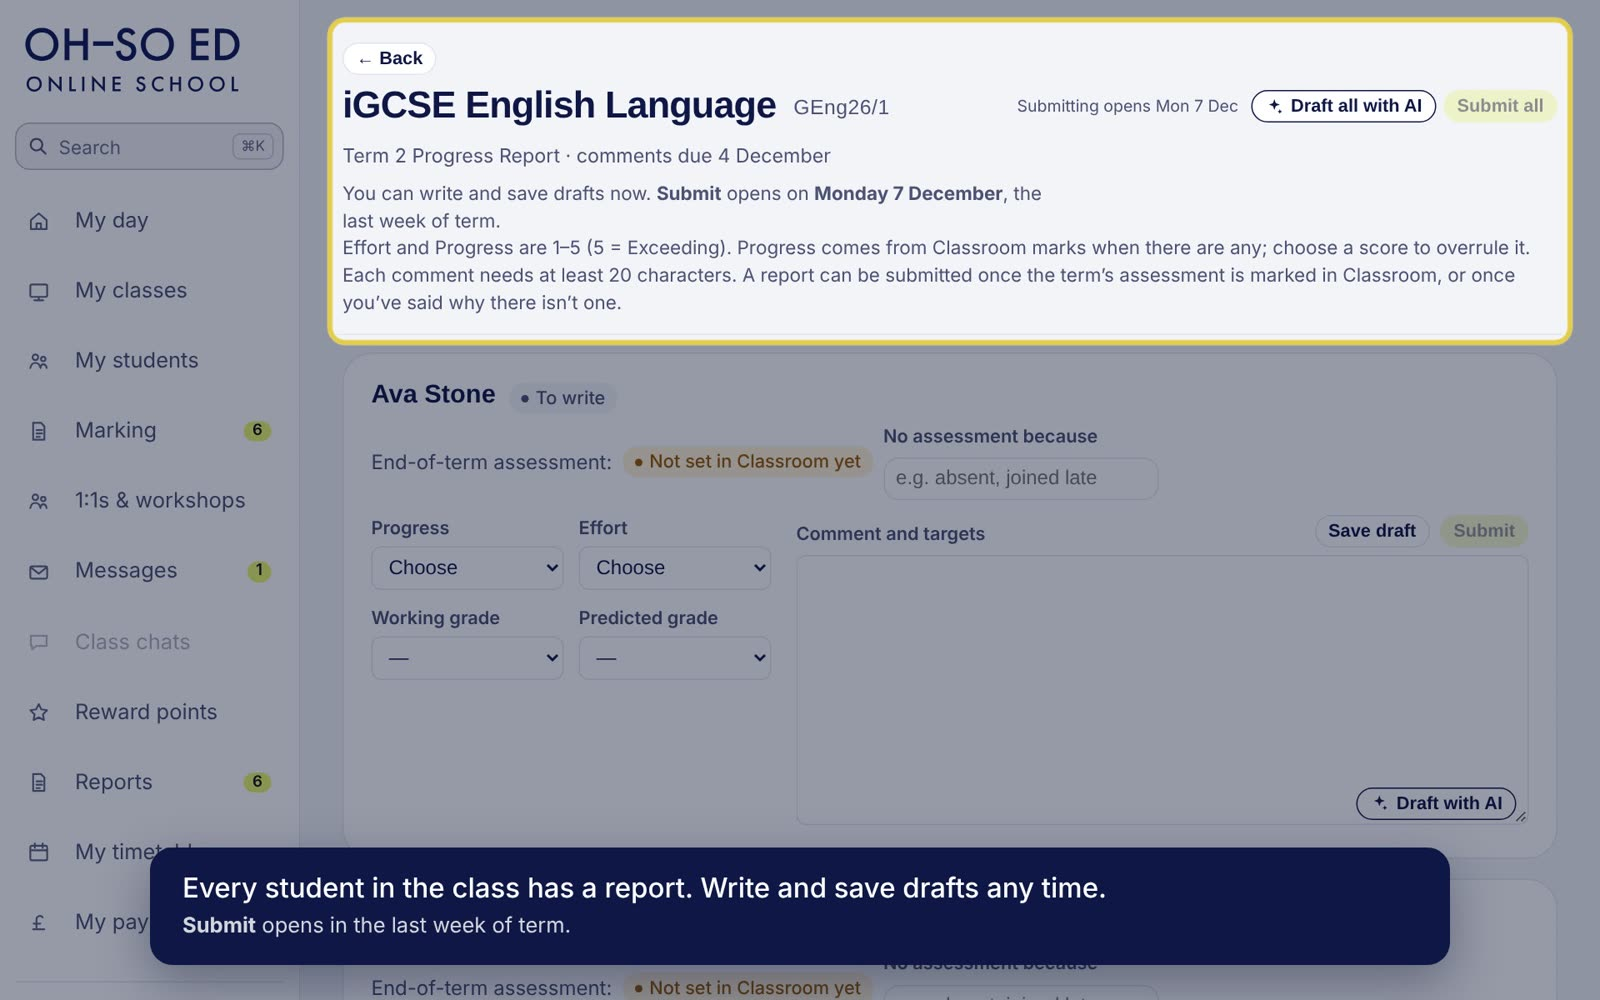
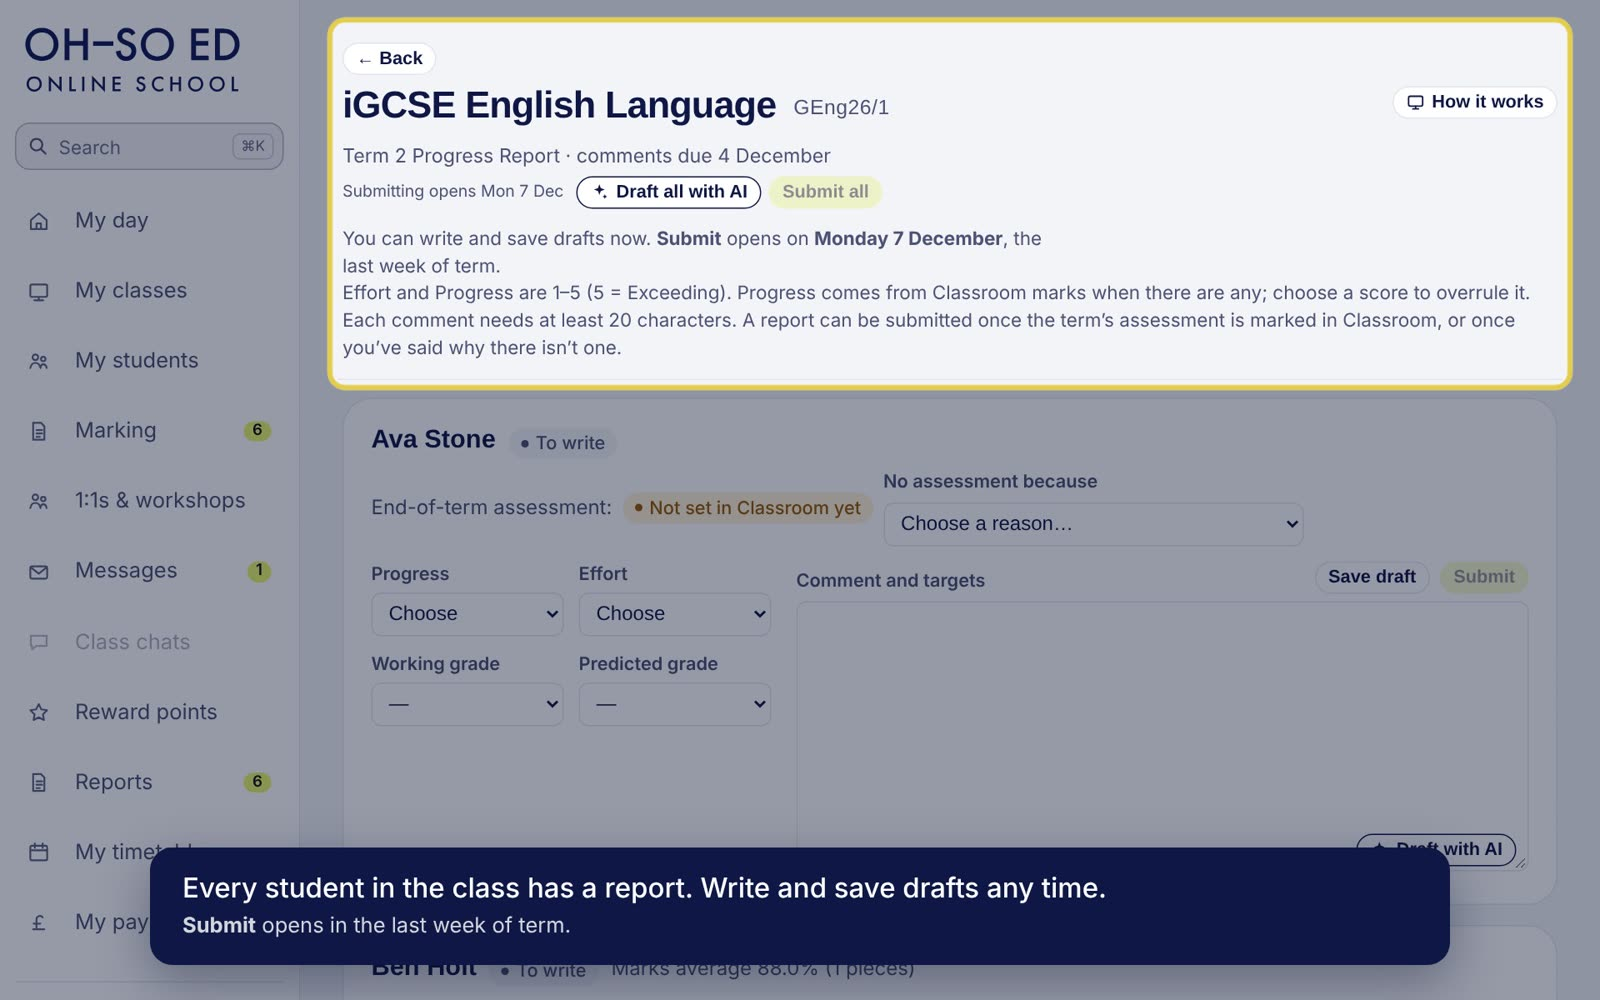
Update 481: No assessment reasons; My day button; dashboard lesson rows; guide captions
- "No assessment because" is a list of reasons (absent, joined after the assessment, none set
  this term, handed in not marked yet, medical or personal, taking a break) or Other to type one
- With the side menu hidden, a "My day" button (teacher) / "Dashboard" (admin) at the top left
- Admin dashboard Today: the number of students and class code on their own line
- Reports guide slides re-shot: Draft with AI uses the student's earlier reports; the reason list

Claude-Session: https://claude.ai/code/session_019jwWYdrTturMMjiMEQw7Wv

diff --git a/src/app/admin/TopBar.tsx b/src/app/admin/TopBar.tsx
@@ -9,7 +9,7 @@ export function TopBar({ children }: { children?: React.ReactNode }) {
 
 /** The bottom of the side menu, always in view: the School / Viewing as switchers (admins), then Sign out on the left and,
  *  on the right, the light/dark switch (as on the website) and the button that hides the menu. */
-export function SideFoot({ theme, signOut, switchers, site, preview, inline, toggle, note, settings, mode }: { mode?: "admin" | "teacher"; settings?: string; theme?: string; signOut?: (f: FormData) => Promise<void>; switchers?: React.ReactNode; site?: { href: string; label: string }[]; preview?: boolean; inline?: boolean; toggle?: boolean; note?: React.ReactNode }) {
+export function SideFoot({ theme, signOut, switchers, site, preview, inline, toggle, note, settings, mode, home }: { home?: { href: string; label: string }; mode?: "admin" | "teacher"; settings?: string; theme?: string; signOut?: (f: FormData) => Promise<void>; switchers?: React.ReactNode; site?: { href: string; label: string }[]; preview?: boolean; inline?: boolean; toggle?: boolean; note?: React.ReactNode }) {
   return <div className={`side-foot${inline ? " inline" : ""}`}>
     {switchers}{note}
     {mode && <div className="mode-seg" role="group" aria-label="Dashboard mode">
@@ -17,7 +17,7 @@ export function SideFoot({ theme, signOut, switchers, site, preview, inline, tog
       <a href="/admin/mode?to=teacher" aria-current={mode === "teacher" ? "true" : undefined}>Teacher</a></div>}
     <div className="sf-row">{signOut && <form action={signOut}><button className="abtn sm" type="submit">Sign out</button></form>}{!signOut && preview && <button className="abtn sm" type="button" disabled title="The parent or student sees Sign out here. You’re only viewing.">Sign out</button>}
       {settings && <a className="sf-icon" href={settings} title="Settings" aria-label="Settings"><svg viewBox="0 0 24 24" width="18" height="18" aria-hidden="true"><path fill="none" stroke="currentColor" strokeWidth="1.8" strokeLinecap="round" strokeLinejoin="round" d="M12 15.2a3.2 3.2 0 1 0 0-6.4 3.2 3.2 0 0 0 0 6.4Z"/><path fill="none" stroke="currentColor" strokeWidth="1.8" strokeLinecap="round" strokeLinejoin="round" d="M19.4 15a1.7 1.7 0 0 0 .34 1.87l.06.06a2 2 0 1 1-2.83 2.83l-.06-.06a1.7 1.7 0 0 0-1.87-.34 1.7 1.7 0 0 0-1.03 1.56V21a2 2 0 1 1-4 0v-.09a1.7 1.7 0 0 0-1.1-1.56 1.7 1.7 0 0 0-1.87.34l-.06.06a2 2 0 1 1-2.83-2.83l.06-.06A1.7 1.7 0 0 0 4.6 15a1.7 1.7 0 0 0-1.56-1.03H3a2 2 0 1 1 0-4h.09A1.7 1.7 0 0 0 4.6 8.9a1.7 1.7 0 0 0-.34-1.87l-.06-.06a2 2 0 1 1 2.83-2.83l.06.06a1.7 1.7 0 0 0 1.87.34H9a1.7 1.7 0 0 0 1-1.56V3a2 2 0 1 1 4 0v.09a1.7 1.7 0 0 0 1 1.56 1.7 1.7 0 0 0 1.87-.34l.06-.06a2 2 0 1 1 2.83 2.83l-.06.06a1.7 1.7 0 0 0-.34 1.87V9c.26.6.85 1 1.51 1H21a2 2 0 1 1 0 4h-.09a1.7 1.7 0 0 0-1.51 1Z"/></svg></a>}
-      <span className="sf-grow" /><ThemeToggle initial={theme ?? "auto"} />{toggle && <SideToggle />}</div>
+      <span className="sf-grow" /><ThemeToggle initial={theme ?? "auto"} />{toggle && <SideToggle home={home} />}</div>
     {site && site.length > 0 && <div className="sf-links">{site.map((l) => <a key={l.href} href={l.href}>{l.label}</a>)}</div>}
   </div>;
 }

diff --git a/src/app/admin/(panel)/layout.tsx b/src/app/admin/(panel)/layout.tsx
@@ -88,7 +88,7 @@ export default async function PanelLayout({ children }: { children: React.ReactN
       : <a className="logo" href="/admin" title="Back to the dashboard" style={{ ["--logo" as string]: `url("${logo}")` }}><span className="logo-i"><img src={logo} alt="OH-SO ED: go to the dashboard" width={773} height={224} /></span></a>}
       <MenuSearch area="admin" page="/admin/search" />
       <AdminNav counts={navCounts} groups={menu} />
-      <SideFoot theme={theme} signOut={signOutAction} toggle mode={await import("@/lib/staff-mode").then((m) => m.teachesSelf(me.id)).catch(() => false) ? "admin" : undefined} note={!demo && !pl.plan && testOn ? <a className="tm-pill" href="/admin/test-mode" title="Test mode is on: real data is read as normal, but nothing goes to families, students or teachers. Click to see what’s held.">Test mode on</a> : null} switchers={<div className="sw-side">{switchers("s")}</div>} 
+      <SideFoot theme={theme} signOut={signOutAction} toggle home={{ href: "/admin", label: "Dashboard" }} mode={await import("@/lib/staff-mode").then((m) => m.teachesSelf(me.id)).catch(() => false) ? "admin" : undefined} note={!demo && !pl.plan && testOn ? <a className="tm-pill" href="/admin/test-mode" title="Test mode is on: real data is read as normal, but nothing goes to families, students or teachers. Click to see what’s held.">Test mode on</a> : null} switchers={<div className="sw-side">{switchers("s")}</div>} 
         site={pl.plan ? [{ href: "/osedtech", label: "OH-SO EdTech" }] : isDemoVisitor(me.email) ? [{ href: "/osedtech/demo/site", label: "View the school’s website" }, { href: "/osedtech", label: "Back to OH-SO EdTech" }] : [{ href: "/", label: "View the website" }]} />
     </aside>
     <main className="main"><div className="topbar adm-tabs"><AdminTabs counts={navCounts} groups={menu} /><div className="sw-top">{switchers("t")}</div>

diff --git a/src/app/admin/SideToggle.tsx b/src/app/admin/SideToggle.tsx
@@ -1,10 +1,12 @@
 "use client";
 import { useEffect, useState } from "react";
+import { usePathname } from "next/navigation";
 
 /** Hides and shows the side menu (remembered in this browser). 26 Nov (Alfonso): with the menu hidden there's no Menu
  *  button any more; moving the pointer close to the left edge of the window slides a tab out, which opens the menu
  *  again. On touch screens (no pointer to move) the tab stays half out. */
-export function SideToggle() {
+export function SideToggle({ home }: { home?: { href: string; label: string } }) {
+  const path = usePathname();
   const [closed, setClosed] = useState(false);
   const [near, setNear] = useState(false);
   useEffect(() => { try { setClosed(localStorage.getItem("ose-side") === "closed"); } catch { /* private browsing */ } }, []);
@@ -30,5 +32,8 @@ export function SideToggle() {
       aria-expanded="false" aria-label="Show the menu" title="Show the menu">
       <svg viewBox="0 0 20 20" width="18" height="18" fill="none" stroke="currentColor" strokeWidth="1.8" strokeLinecap="round" aria-hidden="true"><path d="M3 5h14M3 10h14M3 15h14" /></svg>
       <span>Menu</span></button>}
+    {/* 27 Nov (Alfonso): with the menu hidden, a button back to My day (or the dashboard), except on that page */}
+    {closed && home && path !== home.href && <a className="side-home" href={home.href} title={`Back to ${home.label}`}>
+      <svg viewBox="0 0 20 20" width="16" height="16" fill="none" stroke="currentColor" strokeWidth="1.8" strokeLinecap="round" strokeLinejoin="round" aria-hidden="true"><path d="M3 9l7-6 7 6v8H3z M8 17v-5h4v5" /></svg>{home.label}</a>}
   </>;
 }

diff --git a/src/app/admin/NoAssessPick.tsx b/src/app/admin/NoAssessPick.tsx
@@ -1,0 +1,22 @@
+"use client";
+import { useState } from "react";
+
+// 27 Nov: "No assessment because": a choice of common reasons, or Other to type one. The chosen wording is saved as before.
+export const NO_ASSESS_REASONS = ["Absent for the assessment", "Joined the class after the assessment", "No assessment set for this class this term",
+  "Handed in, not marked yet", "Medical or personal reasons", "Taking a break from the course"];
+
+export function NoAssessPick({ name, value, disabled }: { name: string; value: string; disabled?: boolean }) {
+  const known = NO_ASSESS_REASONS.includes(value);
+  const [pick, setPick] = useState(value ? (known ? value : "__other") : "");
+  const [other, setOther] = useState(known ? "" : value);
+  const final = pick === "__other" ? other : pick;
+  return <span className="na-pick">
+    <input type="hidden" name={name} value={final} />
+    <select value={pick} onChange={(e) => setPick(e.target.value)} disabled={disabled} className="mini" aria-label="No assessment because">
+      <option value="">Choose a reason…</option>
+      {NO_ASSESS_REASONS.map((r) => <option key={r} value={r}>{r}</option>)}
+      <option value="__other">Other (type it)</option>
+    </select>
+    {pick === "__other" && <input value={other} onChange={(e) => setOther(e.target.value)} maxLength={200} disabled={disabled} placeholder="Type the reason" className="mini" style={{ width: 220 }} autoFocus={!other} />}
+  </span>;
+}

diff --git a/src/app/admin/(staff)/write/[cycle]/[group]/page.tsx b/src/app/admin/(staff)/write/[cycle]/[group]/page.tsx
@@ -1,3 +1,4 @@
+import { NoAssessPick } from "../../../../NoAssessPick";
 import { GuideSlides } from "../../../../GuideSlides";
 import { REPORT_SLIDES } from "../../../../guides";
 import { notFound } from "next/navigation";
@@ -46,7 +47,7 @@ export default async function Write({ params, searchParams }: { params: Promise<
           <span className="muted">{r.assess_title ?? "End-of-term assessment"}:</span>
           <span className={`pill ${AS[r.assess]?.[0] ?? "mute"}`}>{AS[r.assess]?.[1] ?? r.assess}{r.assess === "marked" && r.assess_pct != null ? ` · ${r.assess_pct}%` : ""}</span>
           {r.assess !== "marked" && r.assess !== "unknown" && <label className="fld" style={{ flexDirection: "row", alignItems: "center", gap: 6 }}>No assessment because
-            <input name={`noassess_${r.id}`} defaultValue={r.no_assessment ?? ""} placeholder="e.g. absent, joined late" maxLength={200} disabled={ro} className="mini" style={{ width: 220 }} /></label>}</div>
+            <NoAssessPick name={`noassess_${r.id}`} value={r.no_assessment ?? ""} disabled={ro} /></label>}</div>
         {r.status === "returned" && r.review_note && <p className="note msg bad">Sent back: {r.review_note}</p>}
         {here && (sp.ok || sp.err) && <p className={`note msg${sp.err ? " bad" : ""}`} role="status">{sp.err ?? sp.ok}</p>}
         {/* 1 Nov: the scores stacked on the left (2 × 2), the comment on the right with Save draft / Submit above it */}

diff --git a/src/app/admin/dash/admin-board.tsx b/src/app/admin/dash/admin-board.tsx
@@ -133,7 +133,7 @@ export async function adminModules(me: Staff, plan: PlanId | null): Promise<Boar
       {m.day.lessons.length === 0 ? <p className="empty">No lessons coming up.</p> :
         <div className="dx-tl-scroll" tabIndex={0} role="region" aria-label="Lessons"><ol className="dx-tl">{m.day.lessons.map((l, i) => { const s = st(l); return <li key={i} data-lesson={`${l.name}, ${l.starts}`} className={`${s}${i === nextIdx ? " next" : ""}`} style={{ ["--c" as string]: l.colour }}>
           <span className="tm">{l.starts}<small>{l.ends}</small></span>
-          <span className="bd"><b>{l.name}</b><span>{l.teacher ?? "No teacher set"} · {l.students} student{l.students === 1 ? "" : "s"} · {l.code}</span></span>
+          <span className="bd"><b>{l.name}</b><span>{l.teacher ?? "No teacher set"}</span><span>{l.students} student{l.students === 1 ? "" : "s"} · {l.code}</span></span>
           <span className="ac">{s === "live" ? <span className="dx-live">Live now</span> : s === "done" ? <span className="pill mute">Done</span> : s === "cancelled" ? <span className="pill bad">Cancelled</span> : i === nextIdx ? <span className="pill info">Next</span> : null}
             {l.meet && (s === "live" || i === nextIdx) && <a className="abtn sm" href={l.meet} target="_blank" rel="noopener">Join</a>}</span>
         </li>; })}</ol></div>}

diff --git a/src/app/admin/(staff)/layout.tsx b/src/app/admin/(staff)/layout.tsx
@@ -69,7 +69,7 @@ export default async function StaffLayout({ children }: { children: React.ReactN
         : <a className="logo" href="/admin/teacher" title="My day"><img src={logo} alt="OH-SO ED: go to My day" width={773} height={224} /></a>}
         <MenuSearch area="teacher" page="/admin/teacher/search" />
         <TeacherNav counts={{ "/admin/teacher/messages": c.msgs, "/admin/teacher/reports": c.reports, "/admin/teacher/marking": c.marking }} groups={await teacherMenu()} />
-        <SideFoot theme={theme} signOut={signOutAction} inline toggle settings="/admin/teacher/notifications" mode={ownTeacher ? "teacher" : undefined} />
+        <SideFoot theme={theme} signOut={signOutAction} inline toggle settings="/admin/teacher/notifications" mode={ownTeacher ? "teacher" : undefined} home={{ href: "/admin/teacher", label: "My day" }} />
       </aside>
       <main className="main"><TopBar />{await import("@/lib/test-mode").then(async (t) => await t.betaOn() ? <p className="note beta-strip" role="note">{t.BETA.stripTeacher}</p> : null)}{children}</main>
     </div></div>;

diff --git a/src/app/admin/admin.css b/src/app/admin/admin.css
@@ -1641,3 +1641,10 @@
 .adm .segl button{background:transparent;border:0;font:inherit;font-weight:500;padding:7px 14px;cursor:pointer;color:var(--ink)}.adm .segl button:hover{background:var(--hover)}
 .adm .segl button[aria-current]{background:var(--rail-on,var(--brand));color:var(--rail-on-ink,#fff)}
 .adm #add .segl{justify-self:start;display:inline-flex}
+.adm .na-pick{display:inline-flex;gap:6px;flex-wrap:wrap;align-items:center}
+/* 27 Nov: with the side menu hidden, a button back to My day / the dashboard (SideToggle home=) */
+.adm .side-home{position:fixed;z-index:31;top:12px;left:12px;display:inline-flex;align-items:center;gap:6px;padding:7px 12px;border-radius:999px;background:var(--brand);color:#fff;
+  font-weight:600;font-size:14px;text-decoration:none;box-shadow:0 6px 18px rgba(5,15,45,.2)}
+.adm .side-home:hover{filter:brightness(1.1)}
+.adm .app.side-closed .side-home{visibility:visible}.adm .app.side-closed:has(.side-home) .main{padding-top:60px}
+@media (max-width:820px){.adm .side-home{display:none}}
